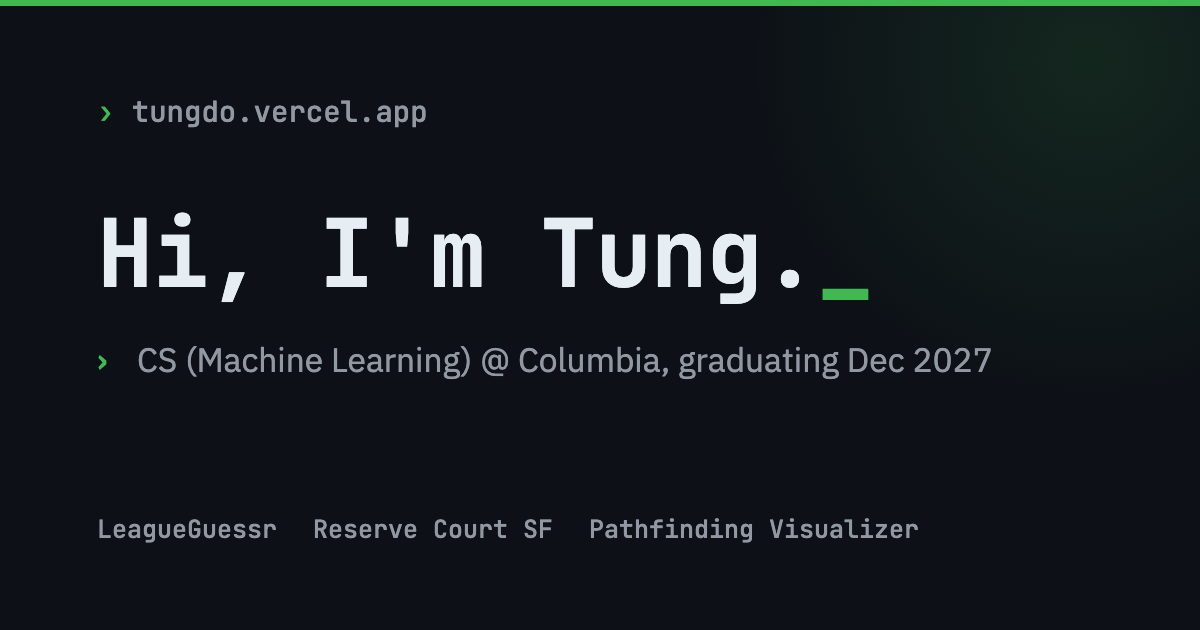
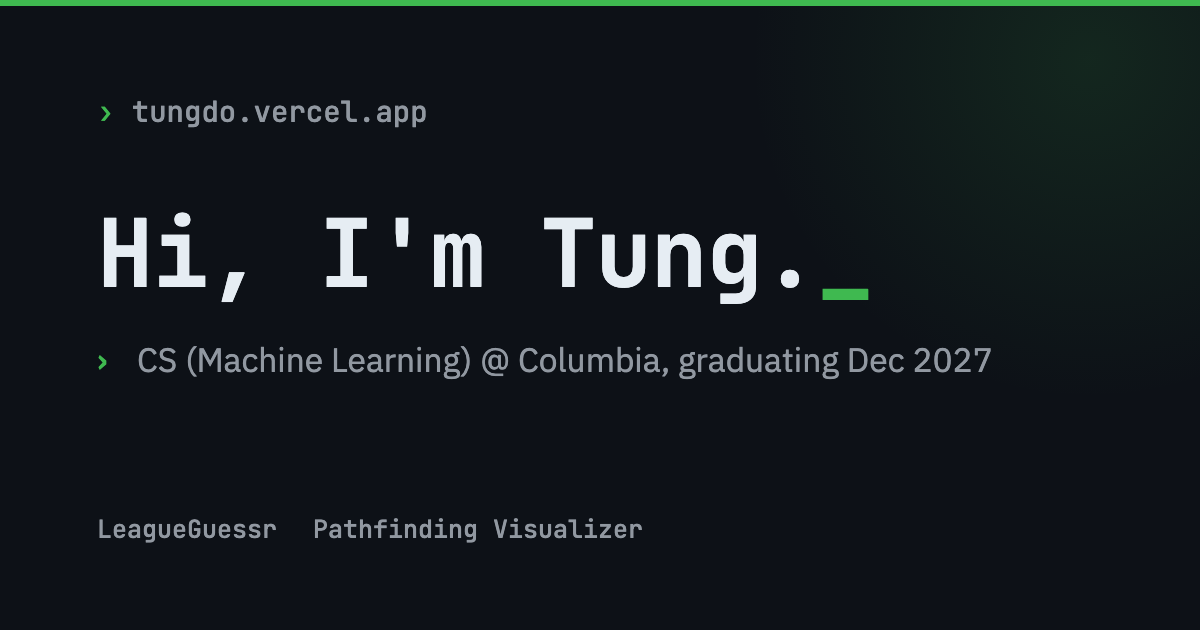
Hide Reserve Court SF for now

Changed region(s): [[0.2775, 0.8143, 0.7708, 0.8746]]

diff --git a/index.html b/index.html
@@ -4,7 +4,7 @@
   <meta charset="utf-8">
   <meta name="viewport" content="width=device-width, initial-scale=1, viewport-fit=cover">
   <title>Tung Do · Portfolio</title>
-  <meta name="description" content="Tung Do: CS (Machine Learning) @ Columbia. Builder of LeagueGuessr (300k+ plays), Reserve Court SF and a Pathfinding Visualizer.">
+  <meta name="description" content="Tung Do: CS (Machine Learning) @ Columbia. Builder of LeagueGuessr (300k+ plays) and a Pathfinding Visualizer.">
   <meta property="og:title" content="Tung Do · Portfolio">
   <meta property="og:description" content="CS (Machine Learning) @ Columbia.">
   <meta property="og:type" content="website">
@@ -114,6 +114,7 @@
         </div>
       </article>
 
+      <!-- Reserve Court SF: hidden for now. Remove this comment wrapper to bring it back.
       <article class="card">
         <div class="card-body">
           <div class="card-title">
@@ -144,6 +145,7 @@
           </div>
         </div>
       </article>
+      -->
 
       <article class="card split">
         <div class="split-media">
